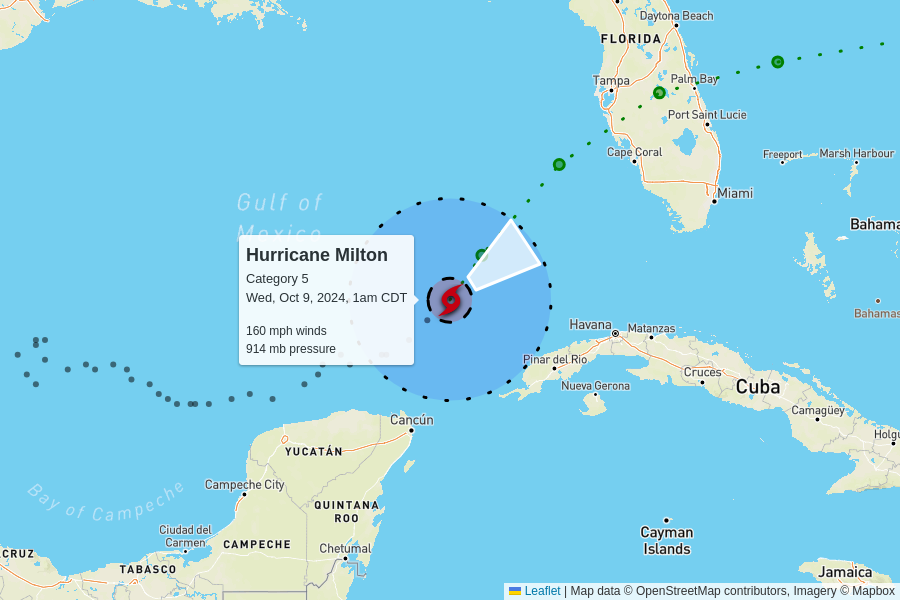
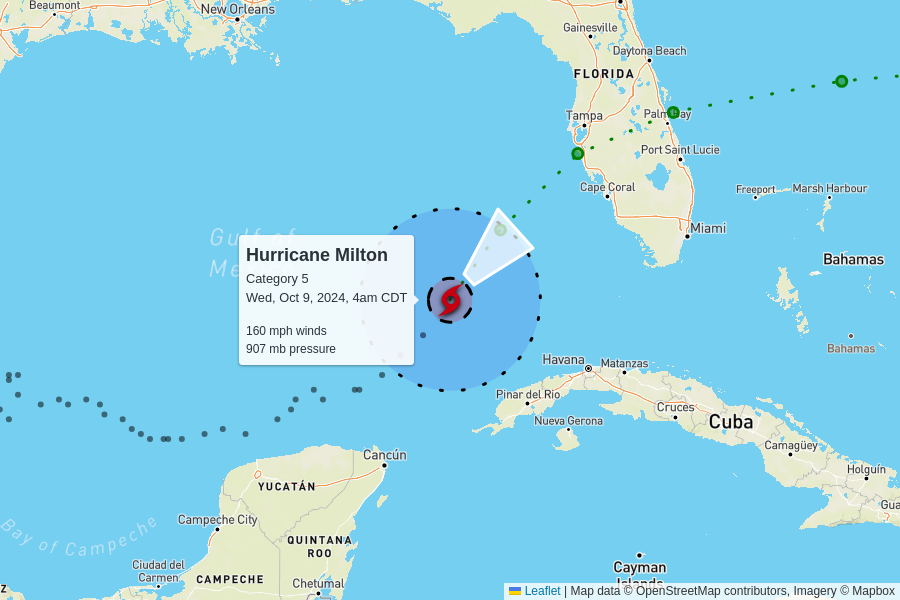
automatic update

diff --git a/docs/index.html b/docs/index.html
@@ -104,7 +104,7 @@
         <td colspan="6" class="storm category-5" >
           <h2>
             Hurricane Milton - Category 5
-            <p class="updated">last updated <span data-time>2024-10-09T06:00:00.000Z</span></p>
+            <p class="updated">last updated <span data-time>2024-10-09T09:00:00.000Z</span></p>
           </h2>
         </td>
       </tr>
@@ -120,11 +120,11 @@
       <tr>
         <td class="spacer"></td>
         <td>160 mph<br>0 mph since last update</td>
-        <td>914 mb<br>-1 mb since last update</td>
+        <td>907 mb<br>-7 mb since last update</td>
         <td>
-          12 mph to the northeast
+          14 mph to the northeast
           <br/>
-          <span style="display: inline-block; font-size: 1.5em; transform: rotate(55deg);">↑</span>
+          <span style="display: inline-block; font-size: 1.5em; transform: rotate(45deg);">↑</span>
         </td>
         <td><a href="https://raw.githubusercontent.com/mgwalker/atlantic-hurricanes/main/data/csv/AL142024.csv">AL142024.csv</a></td>
         <td><a href="https://www.nhc.noaa.gov/archive/2024/MILTON.shtml?">NHC advisories</a></td>
@@ -148,7 +148,7 @@
         <td colspan="6" class="storm category-1" >
           <h2>
             Hurricane Leslie - Category 1
-            <p class="updated">last updated <span data-time>2024-10-09T03:00:00.000Z</span></p>
+            <p class="updated">last updated <span data-time>2024-10-09T09:00:00.000Z</span></p>
           </h2>
         </td>
       </tr>
@@ -163,10 +163,10 @@
       </tr>
       <tr>
         <td class="spacer"></td>
-        <td>80 mph<br>+5 mph since last update</td>
-        <td>987 mb<br>-5 mb since last update</td>
+        <td>80 mph<br>0 mph since last update</td>
+        <td>987 mb<br>0 mb since last update</td>
         <td>
-          12 mph to the northwest
+          10 mph to the northwest
           <br/>
           <span style="display: inline-block; font-size: 1.5em; transform: rotate(310deg);">↑</span>
         </td>
